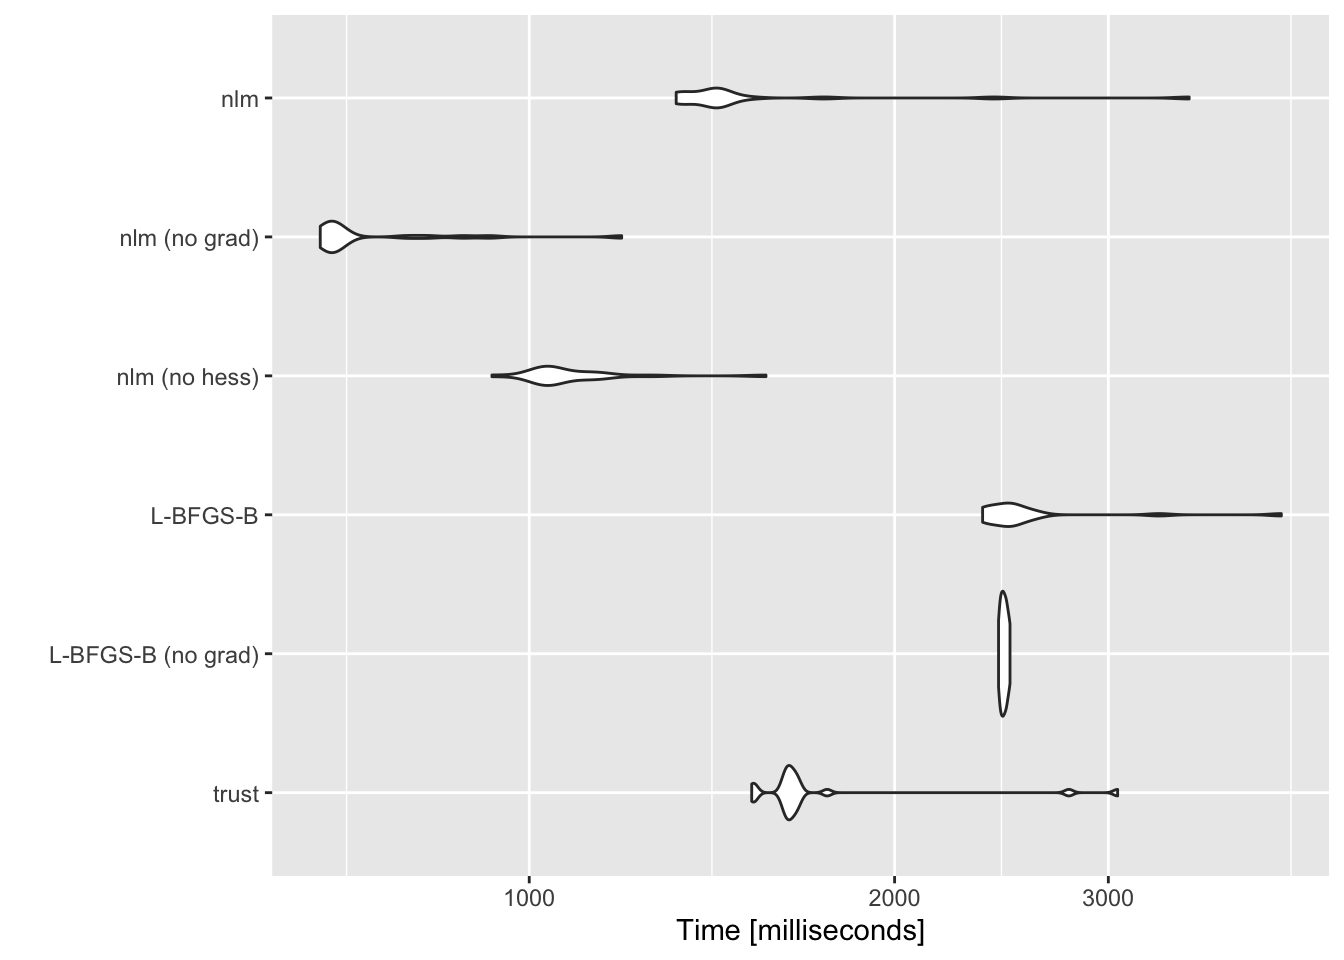
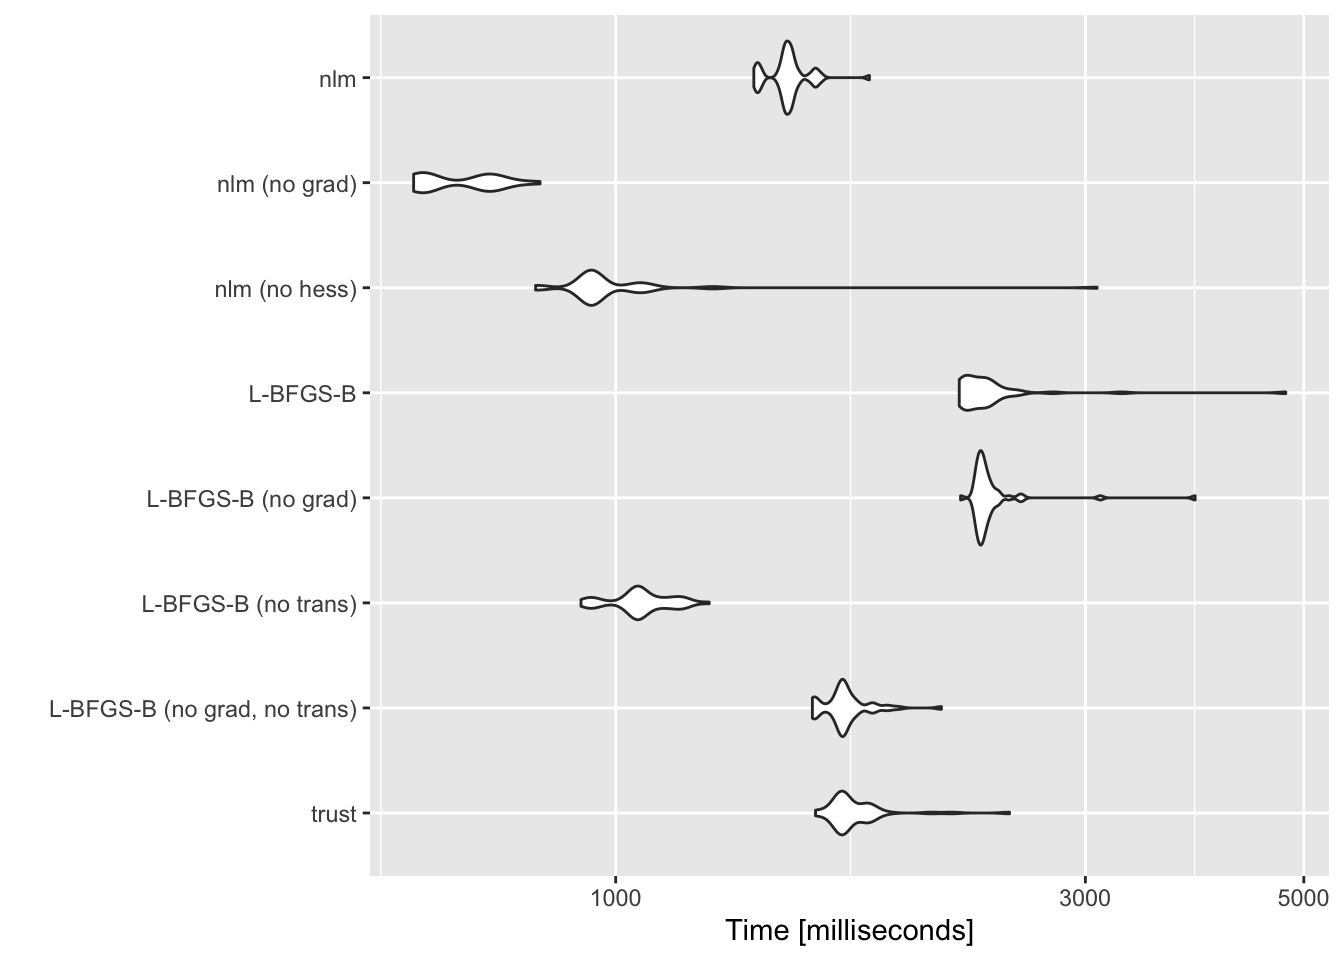
Build site.

diff --git a/docs/optmethods_pl2.html b/docs/optmethods_pl2.html
@@ -364,7 +364,7 @@ div.section {
 <div class="tab-content">
 <div id="summary" class="tab-pane fade in active">
 <p>
-<strong>Last updated:</strong> 2021-01-12
+<strong>Last updated:</strong> 2021-01-23
 </p>
 <p>
 <strong>Checks:</strong> <span class="glyphicon glyphicon-ok text-success" aria-hidden="true"></span> 6 <span class="glyphicon glyphicon-exclamation-sign text-danger" aria-hidden="true"></span> 0
@@ -443,10 +443,10 @@ This reproducible <a href="http://rmarkdown.rstudio.com">R Markdown</a> analysis
 <div class="panel panel-default">
 <div class="panel-heading">
 <p class="panel-title">
-<a data-toggle="collapse" data-parent="#workflowr-checks" href="#strongRepositoryversionstrongahrefhttpsgithubcomwillwerscheidebnmpapertree3dcbc0bf64cebc13e72ad804b1d833a4fb982d99targetblank3dcbc0ba"> <span class="glyphicon glyphicon-ok text-success" aria-hidden="true"></span> <strong>Repository version:</strong> <a href="https://github.com/willwerscheid/ebnm-paper/tree/3dcbc0bf64cebc13e72ad804b1d833a4fb982d99" target="_blank">3dcbc0b</a> </a>
+<a data-toggle="collapse" data-parent="#workflowr-checks" href="#strongRepositoryversionstrongahrefhttpsgithubcomwillwerscheidebnmpapertree5e4d8ae9be40eb1d5153a39a17bfe7f8639bf7eatargetblank5e4d8aea"> <span class="glyphicon glyphicon-ok text-success" aria-hidden="true"></span> <strong>Repository version:</strong> <a href="https://github.com/willwerscheid/ebnm-paper/tree/5e4d8ae9be40eb1d5153a39a17bfe7f8639bf7ea" target="_blank">5e4d8ae</a> </a>
 </p>
 </div>
[2 lines of base64/hex data omitted]
 <div class="panel-body">
 <p>
 Great! You are using Git for version control. Tracking code development and connecting the code version to the results is critical for reproducibility. The version displayed above was the version of the Git repository at the time these results were generated. <br><br> Note that you need to be careful to ensure that all relevant files for the analysis have been committed to Git prior to generating the results (you can use <code>wflow_publish</code> or <code>wflow_git_commit</code>). workflowr only checks the R Markdown file, but you know if there are other scripts or data files that it depends on. Below is the status of the Git repository when the results were generated:
@@ -457,12 +457,11 @@ Ignored files:
     Ignored:    .Rproj.user/
 
 Untracked files:
-    Untracked:  analysis/optmethods_pl3.Rmd
     Untracked:  sims.R
 
 Unstaged changes:
-    Modified:   analysis/_site.yml
-    Modified:   analysis/index.Rmd
+    Modified:   analysis/ebayesthresh.Rmd
+    Modified:   analysis/optmethods_pl.Rmd
 
 </code></pre>
 <p>
@@ -506,6 +505,40 @@ Message
 Rmd
 </td>
 <td>
+<a href="https://github.com/willwerscheid/ebnm-paper/blob/5e4d8ae9be40eb1d5153a39a17bfe7f8639bf7ea/analysis/optmethods_pl2.Rmd" target="_blank">5e4d8ae</a>
+</td>
+<td>
+Jason Willwerscheid
+</td>
+<td>
+2021-01-23
+</td>
+<td>
+wflow_publish(“analysis/optmethods_pl2.Rmd”)
+</td>
+</tr>
+<tr>
+<td>
+html
+</td>
+<td>
+<a href="https://rawcdn.githack.com/willwerscheid/ebnm-paper/d9de9bc0d34ffe0f84a69697a58e3a1e5c9e5722/docs/optmethods_pl2.html" target="_blank">d9de9bc</a>
+</td>
+<td>
+Jason Willwerscheid
+</td>
+<td>
+2021-01-12
+</td>
+<td>
+Build site.
+</td>
+</tr>
+<tr>
+<td>
+Rmd
+</td>
+<td>
 <a href="https://github.com/willwerscheid/ebnm-paper/blob/3dcbc0bf64cebc13e72ad804b1d833a4fb982d99/analysis/optmethods_pl2.Rmd" target="_blank">3dcbc0b</a>
 </td>
 <td>
@@ -540,6 +573,10 @@ test_n &lt;- function(n, mb_times = 100L, seed = 666) {
   test_res &lt;- microbenchmark(
     tres &lt;- ebnm_point_laplace(x, s, optmethod = &quot;trust&quot;,
                                control = list(fterm = sqrt(.Machine$double.eps))),
+    ebnm_point_laplace(x, s, optmethod = &quot;notrans_nograd_lbfgsb&quot;,
+                       control = list(pgtol = sqrt(.Machine$double.eps))),
+    ures &lt;- ebnm_point_laplace(x, s, optmethod = &quot;notrans_lbfgsb&quot;,
+                       control = list(pgtol = sqrt(.Machine$double.eps))),
     ebnm_point_laplace(x, s, optmethod = &quot;nograd_lbfgsb&quot;,
                        control = list(pgtol = sqrt(.Machine$double.eps))),
     ores &lt;- ebnm_point_laplace(x, s, optmethod = &quot;lbfgsb&quot;,
@@ -553,11 +590,14 @@ test_n &lt;- function(n, mb_times = 100L, seed = 666) {
     times = mb_times
   )
 
-  levels(test_res$expr) &lt;- c(&quot;trust&quot;, &quot;L-BFGS-B (no grad)&quot;, &quot;L-BFGS-B&quot;, 
-                          &quot;nlm (no hess)&quot;, &quot;nlm (no grad)&quot;, &quot;nlm&quot;)
+  levels(test_res$expr) &lt;- c(&quot;trust&quot;, 
+                             &quot;L-BFGS-B (no grad, no trans)&quot;, &quot;L-BFGS-B (no trans)&quot;,
+                             &quot;L-BFGS-B (no grad)&quot;, &quot;L-BFGS-B&quot;,
+                             &quot;nlm (no hess)&quot;, &quot;nlm (no grad)&quot;, &quot;nlm&quot;)
   
-  llik_res &lt;- c(tres$log_likelihood, ores$log_likelihood, nres$log_likelihood)
-  names(llik_res) &lt;- c(&quot;trust&quot;, &quot;L-BFGS-B&quot;, &quot;nlm&quot;)
+  llik_res &lt;- c(nres$log_likelihood, ores$log_likelihood, 
+                ures$log_likelihood, tres$log_likelihood)
+  names(llik_res) &lt;- c(&quot;nlm&quot;, &quot;L-BFGS-B&quot;, &quot;L-BFGS-B (no trans)&quot;, &quot;trust&quot;)
   
   return(list(mb_res = test_res, llik_res = llik_res))
 }</code></pre>
@@ -566,36 +606,148 @@ test_n &lt;- function(n, mb_times = 100L, seed = 666) {
 <p>Difference from maximum log likelihood among all methods:</p>
 <pre class="r"><code>res1000 &lt;- test_n(1000)
 res1000$llik_res - max(res1000$llik_res)</code></pre>
-<pre><code>#&gt;         trust      L-BFGS-B           nlm 
-#&gt; -0.0001618785 -0.0001618785  0.0000000000</code></pre>
+<pre><code>#&gt;                 nlm            L-BFGS-B L-BFGS-B (no trans)               trust 
+#&gt;                   0                   0                   0                   0</code></pre>
 <p>Timing results:</p>
 <pre class="r"><code>autoplot(res1000$mb_res)</code></pre>
 <pre><code>#&gt; Coordinate system already present. Adding new coordinate system, which will replace the existing one.</code></pre>
 <p><img src="figure/optmethods_pl2.Rmd/n1000t-1.png" width="672" style="display: block; margin: auto;" /></p>
+<p>
+<button type="button" class="btn btn-default btn-xs btn-workflowr btn-workflowr-fig" data-toggle="collapse" data-target="#fig-n1000t-1">
+Past versions of n1000t-1.png
+</button>
+</p>
+<div id="fig-n1000t-1" class="collapse">
+<div class="table-responsive">
+<table class="table table-condensed table-hover">
+<thead>
+<tr>
+<th>
+Version
+</th>
+<th>
+Author
+</th>
+<th>
+Date
+</th>
+</tr>
+</thead>
+<tbody>
+<tr>
+<td>
+<a href="https://github.com/willwerscheid/ebnm-paper/blob/d9de9bc0d34ffe0f84a69697a58e3a1e5c9e5722/docs/figure/optmethods_pl2.Rmd/n1000t-1.png" target="_blank">d9de9bc</a>
+</td>
+<td>
+Jason Willwerscheid
+</td>
+<td>
+2021-01-12
+</td>
+</tr>
+</tbody>
+</table>
+</div>
+</div>
 </div>
 <div id="n-10000" class="section level2">
 <h2>n = 10000</h2>
 <p>Difference from maximum log likelihood among all methods:</p>
-<pre class="r"><code>res10000 &lt;- test_n(10000, mb_times = 50L)
+<pre class="r"><code>res10000 &lt;- test_n(10000)
 res10000$llik_res - max(res10000$llik_res)</code></pre>
-<pre><code>#&gt;    trust L-BFGS-B      nlm 
-#&gt;        0        0        0</code></pre>
+<pre><code>#&gt;                 nlm            L-BFGS-B L-BFGS-B (no trans)               trust 
+#&gt;                   0                   0                   0                   0</code></pre>
 <p>Timing results:</p>
 <pre class="r"><code>autoplot(res10000$mb_res)</code></pre>
 <pre><code>#&gt; Coordinate system already present. Adding new coordinate system, which will replace the existing one.</code></pre>
 <p><img src="figure/optmethods_pl2.Rmd/n10000t-1.png" width="672" style="display: block; margin: auto;" /></p>
+<p>
+<button type="button" class="btn btn-default btn-xs btn-workflowr btn-workflowr-fig" data-toggle="collapse" data-target="#fig-n10000t-1">
+Past versions of n10000t-1.png
+</button>
+</p>
+<div id="fig-n10000t-1" class="collapse">
+<div class="table-responsive">
+<table class="table table-condensed table-hover">
+<thead>
+<tr>
+<th>
+Version
+</th>
+<th>
+Author
+</th>
+<th>
+Date
+</th>
+</tr>
+</thead>
+<tbody>
+<tr>
+<td>
+<a href="https://github.com/willwerscheid/ebnm-paper/blob/d9de9bc0d34ffe0f84a69697a58e3a1e5c9e5722/docs/figure/optmethods_pl2.Rmd/n10000t-1.png" target="_blank">d9de9bc</a>
+</td>
+<td>
+Jason Willwerscheid
+</td>
+<td>
+2021-01-12
+</td>
+</tr>
+</tbody>
+</table>
+</div>
+</div>
 </div>
 <div id="n-100000" class="section level2">
 <h2>n = 100000</h2>
 <p>Difference from maximum log likelihood among all methods:</p>
-<pre class="r"><code>res100000 &lt;- test_n(100000, mb_times = 20L)
+<pre class="r"><code>res100000 &lt;- test_n(100000, mb_times = 50L)
 res100000$llik_res - max(res100000$llik_res)</code></pre>
-<pre><code>#&gt;    trust L-BFGS-B      nlm 
-#&gt;        0        0        0</code></pre>
+<pre><code>#&gt;                 nlm            L-BFGS-B L-BFGS-B (no trans)               trust 
+#&gt;                   0                   0                   0                   0</code></pre>
 <p>Timing results:</p>
 <pre class="r"><code>autoplot(res100000$mb_res)</code></pre>
 <pre><code>#&gt; Coordinate system already present. Adding new coordinate system, which will replace the existing one.</code></pre>
-<img src="figure/optmethods_pl2.Rmd/n100000t-1.png" width="672" style="display: block; margin: auto;" /> <br> <br>
+<p><img src="figure/optmethods_pl2.Rmd/n100000t-1.png" width="672" style="display: block; margin: auto;" /></p>
+<p>
+<button type="button" class="btn btn-default btn-xs btn-workflowr btn-workflowr-fig" data-toggle="collapse" data-target="#fig-n100000t-1">
+Past versions of n100000t-1.png
+</button>
+</p>
+<div id="fig-n100000t-1" class="collapse">
+<div class="table-responsive">
+<table class="table table-condensed table-hover">
+<thead>
+<tr>
+<th>
+Version
+</th>
+<th>
+Author
+</th>
+<th>
+Date
+</th>
+</tr>
+</thead>
+<tbody>
+<tr>
+<td>
+<a href="https://github.com/willwerscheid/ebnm-paper/blob/d9de9bc0d34ffe0f84a69697a58e3a1e5c9e5722/docs/figure/optmethods_pl2.Rmd/n100000t-1.png" target="_blank">d9de9bc</a>
+</td>
+<td>
+Jason Willwerscheid
+</td>
+<td>
+2021-01-12
+</td>
+</tr>
+</tbody>
+</table>
+</div>
+</div>
+<br> <br>
 <p>
 <button type="button" class="btn btn-default btn-workflowr btn-workflowr-sessioninfo" data-toggle="collapse" data-target="#workflowr-sessioninfo" style="display: block;">
 <span class="glyphicon glyphicon-wrench" aria-hidden="true"></span> Session information
@@ -618,19 +770,19 @@ res100000$llik_res - max(res100000$llik_res)</code></pre>
 #&gt; [1] stats     graphics  grDevices utils     datasets  methods   base     
 #&gt; 
 #&gt; other attached packages:
-#&gt; [1] ggplot2_3.3.3        ebnm_0.1-29          microbenchmark_1.4-7
+#&gt; [1] ggplot2_3.3.3        ebnm_0.1-33          microbenchmark_1.4-7 workflowr_1.2.0     
 #&gt; 
 #&gt; loaded via a namespace (and not attached):
-#&gt;  [1] Rcpp_1.0.4.6      compiler_3.5.3    pillar_1.4.7      git2r_0.25.2      workflowr_1.2.0  
-#&gt;  [6] tools_3.5.3       digest_0.6.18     evaluate_0.13     tibble_3.0.4      lifecycle_0.2.0  
-#&gt; [11] gtable_0.3.0      lattice_0.20-38   pkgconfig_2.0.2   rlang_0.4.10      Matrix_1.2-15    
-#&gt; [16] yaml_2.2.0        xfun_0.6          invgamma_1.1      withr_2.1.2       dplyr_1.0.2      
-#&gt; [21] stringr_1.4.0     knitr_1.22        generics_0.0.2    vctrs_0.3.6       fs_1.2.7         
-#&gt; [26] tidyselect_1.1.0  trust_0.1-8       rprojroot_1.3-2   grid_3.5.3        glue_1.4.2       
-#&gt; [31] R6_2.4.0          rmarkdown_1.12    mixsqp_0.3-40     irlba_2.3.3       purrr_0.3.4      
-#&gt; [36] ashr_2.2-51       magrittr_1.5      whisker_0.3-2     backports_1.1.3   scales_1.0.0     
-#&gt; [41] htmltools_0.3.6   ellipsis_0.3.0    colorspace_1.4-1  stringi_1.4.3     munsell_0.5.0    
-#&gt; [46] truncnorm_1.0-8   SQUAREM_2017.10-1 crayon_1.3.4</code></pre>
+#&gt;  [1] Rcpp_1.0.4.6      compiler_3.5.3    pillar_1.4.7      git2r_0.25.2      tools_3.5.3      
+#&gt;  [6] digest_0.6.18     evaluate_0.13     tibble_3.0.4      lifecycle_0.2.0   gtable_0.3.0     
+#&gt; [11] lattice_0.20-38   pkgconfig_2.0.2   rlang_0.4.10      Matrix_1.2-15     yaml_2.2.0       
+#&gt; [16] xfun_0.6          invgamma_1.1      withr_2.4.0       dplyr_1.0.2       stringr_1.4.0    
+#&gt; [21] knitr_1.22        generics_0.0.2    vctrs_0.3.6       fs_1.2.7          tidyselect_1.1.0 
+#&gt; [26] trust_0.1-8       rprojroot_1.3-2   grid_3.5.3        glue_1.4.2        R6_2.4.0         
+#&gt; [31] rmarkdown_1.12    mixsqp_0.3-40     irlba_2.3.3       purrr_0.3.4       ashr_2.2-51      
+#&gt; [36] magrittr_1.5      whisker_0.3-2     backports_1.1.3   scales_1.0.0      htmltools_0.3.6  
+#&gt; [41] ellipsis_0.3.0    colorspace_1.4-1  stringi_1.4.3     munsell_0.5.0     truncnorm_1.0-8  
+#&gt; [46] SQUAREM_2017.10-1 crayon_1.3.4</code></pre>
 </div>
 </div>
 
